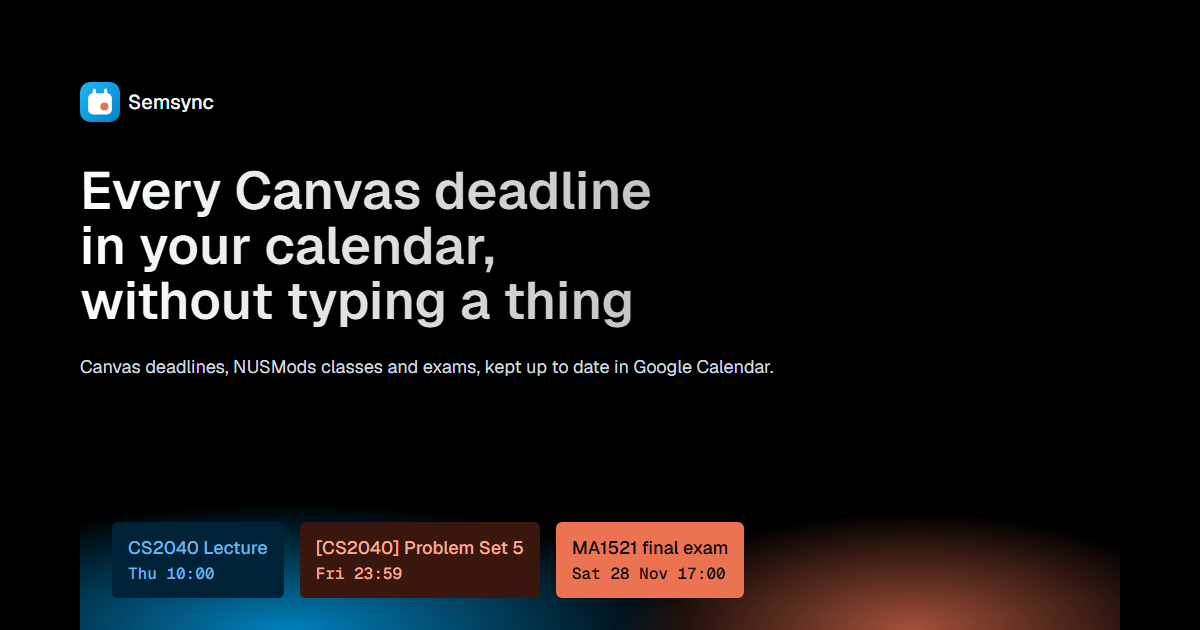
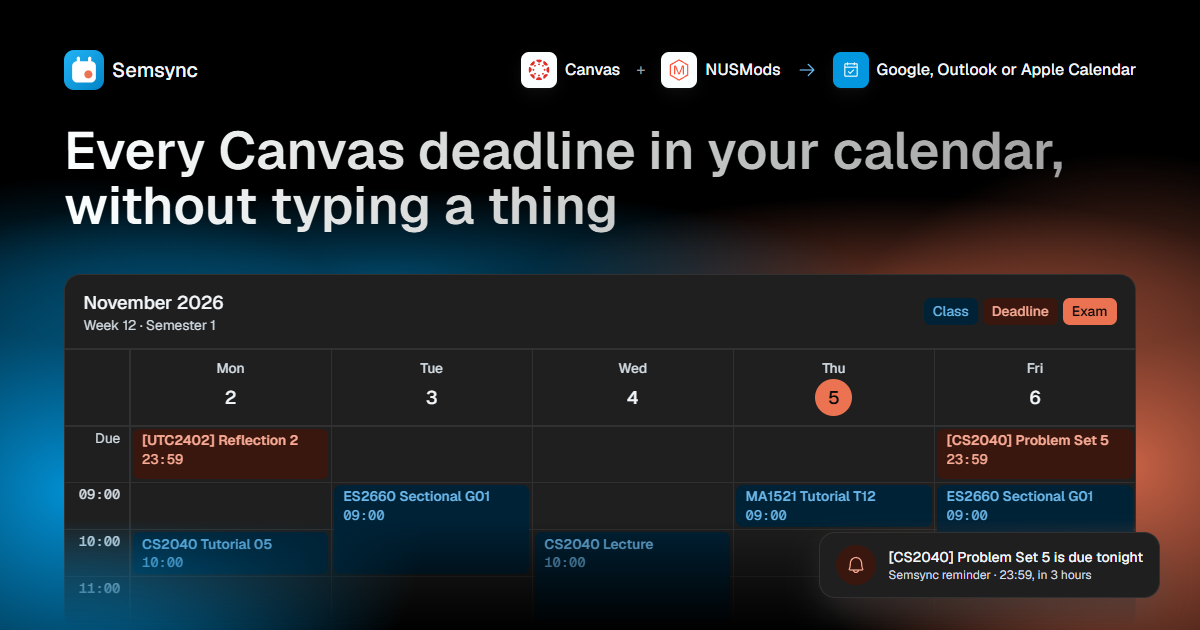
Fill the link preview with the week calendar
The preview card was a headline over an empty black page with three chips at the bottom.
Now the hero's week rises from the bottom edge in its glow, a little larger so it reads at
feed size, fading out instead of being cut through a row, with the reminder over it. The top
row says what it connects: Canvas and NUSMods into Google, Outlook or Apple Calendar.

The week, the reminder and the Canvas and NUSMods line are now shared components, so the
card and the landing page hero draw the same thing. The landing page is unchanged.

diff --git a/src/views/pages.tsx b/src/views/pages.tsx
@@ -315,6 +315,17 @@ const LinkGuides: FC = () => (
   </div>
 );
 
+/** What Semsync works with: Canvas and NUSMods, into Google Calendar (or `dest`, where there's room to name the others). */
+const Flow: FC<{ dest?: string }> = ({ dest = 'Google Calendar' }) => (
+  <p class="flow" aria-label={`Works with Canvas and NUSMods, into ${dest}`}>
+    <span class="flow-item"><span class="flow-icon flow-logo"><CanvasMark size={22} /></span><span class="title-3">Canvas</span></span>
+    <span class="flow-plus title-3" aria-hidden="true">+</span>
+    <span class="flow-item"><span class="flow-icon flow-logo"><NusmodsMark size={22} /></span><span class="title-3">NUSMods</span></span>
+    <span class="flow-arrow" aria-hidden="true"><Icon name="arrowRight" size={20} /></span>
+    <span class="flow-item flow-dest"><span class="flow-icon"><Icon name="calendarCheck" size={18} /></span><span class="title-3">{dest}</span></span>
+  </p>
+);
+
 /** Proof beside the claim: a real testimonial once there is one, otherwise what Semsync works with (both true). */
 const Proof: FC = () =>
   TESTIMONIAL ? (
@@ -323,13 +334,7 @@ const Proof: FC = () =>
       <figcaption class="caption-2">{TESTIMONIAL.name}, {TESTIMONIAL.detail}</figcaption>
     </figure>
   ) : (
-    <p class="flow" aria-label="Works with Canvas and NUSMods, into Google Calendar">
-      <span class="flow-item"><span class="flow-icon flow-logo"><CanvasMark size={22} /></span><span class="title-3">Canvas</span></span>
-      <span class="flow-plus title-3" aria-hidden="true">+</span>
-      <span class="flow-item"><span class="flow-icon flow-logo"><NusmodsMark size={22} /></span><span class="title-3">NUSMods</span></span>
-      <span class="flow-arrow" aria-hidden="true"><Icon name="arrowRight" size={20} /></span>
-      <span class="flow-item flow-dest"><span class="flow-icon"><Icon name="calendarCheck" size={18} /></span><span class="title-3">Google Calendar</span></span>
-    </p>
+    <Flow />
   );
 
 // The hero picture: Week 12 of Semester 1 (2 to 6 Nov 2026) as Semsync puts it in Google Calendar.
@@ -383,48 +388,60 @@ const Showcase: FC = () => (
     aria-label="Two links pasted into Semsync, then a week in Google Calendar filling with NUSMods classes, Canvas deadlines and a Semsync reminder">
     <div class="cal">
       <DemoPaste />
-      <div class="cal-head">
-        <div>
-          <p class="title-3">November 2026</p>
-          <p class="caption-5 text-secondary">Week 12 · Semester 1</p>
-        </div>
-        <div class="cal-legend">
-          <span class="chip chip-class caption-4">Class</span>
-          <span class="chip chip-deadline caption-4">Deadline</span>
-          <span class="chip chip-exam caption-4">Exam</span>
-        </div>
+      <Week />
+    </div>
+    <Reminder style={`--i: ${EVENTS.length + 2};`} />
+  </div>
+);
+
+/** The finished week inside the hero calendar, shared with the link preview card. */
+const Week: FC = () => (
+  <>
+    <div class="cal-head">
+      <div>
+        <p class="title-3">November 2026</p>
+        <p class="caption-5 text-secondary">Week 12 · Semester 1</p>
       </div>
-      <div class="divider" />
-      <div class="cal-grid">
-        <div class="cal-day" style="grid-column: 1; grid-row: 1;" />
-        {DAYS.map(([name, date], i) => (
-          <div class={`cal-day c${i + 1}`} style="grid-row: 1;">
-            <span class="caption-4">{name}</span>
-            <span class={`cal-date title-3${i + 1 === TODAY ? ' today' : ''}`}>{date}</span>
-          </div>
-        ))}
-        <div class="cal-time caption-5" style="grid-column: 1; grid-row: 2;">Due</div>
-        {DAYS.map((_, i) => <div class={`cell c${i + 1}`} style="grid-row: 2; min-height: var(--space-600);" />)}
-        {HOURS.map((h) => (
-          <>
-            <div class="cal-time caption-5 mono" style={`grid-column: 1; grid-row: ${hourRow(h)};`}>{pad(h)}</div>
-            {DAYS.map((_, i) => <div class={`cell c${i + 1}`} style={`grid-row: ${hourRow(h)};`} />)}
-          </>
-        ))}
-        {EVENTS.map((e, i) => (
-          <div class={`ev chip-${e.kind} c${e.day}`} style={`grid-row: ${e.row} / span ${e.span}; --i: ${i};`}>
-            <span class="caption-3">{e.title}</span>
-            <span class="caption-5 mono">{e.time}</span>
-          </div>
-        ))}
+      <div class="cal-legend">
+        <span class="chip chip-class caption-4">Class</span>
+        <span class="chip chip-deadline caption-4">Deadline</span>
+        <span class="chip chip-exam caption-4">Exam</span>
       </div>
     </div>
-    <div class="toast" style={`--i: ${EVENTS.length + 2};`}>
-      <span class="toast-icon"><Icon name="bell" size={20} /></span>
-      <div>
-        <p class="title-4">[CS2040] Problem Set 5 is due tonight</p>
-        <p class="caption-5">Semsync reminder · 23:59, in 3 hours</p>
-      </div>
+    <div class="divider" />
+    <div class="cal-grid">
+      <div class="cal-day" style="grid-column: 1; grid-row: 1;" />
+      {DAYS.map(([name, date], i) => (
+        <div class={`cal-day c${i + 1}`} style="grid-row: 1;">
+          <span class="caption-4">{name}</span>
+          <span class={`cal-date title-3${i + 1 === TODAY ? ' today' : ''}`}>{date}</span>
+        </div>
+      ))}
+      <div class="cal-time caption-5" style="grid-column: 1; grid-row: 2;">Due</div>
+      {DAYS.map((_, i) => <div class={`cell c${i + 1}`} style="grid-row: 2; min-height: var(--space-600);" />)}
+      {HOURS.map((h) => (
+        <>
+          <div class="cal-time caption-5 mono" style={`grid-column: 1; grid-row: ${hourRow(h)};`}>{pad(h)}</div>
+          {DAYS.map((_, i) => <div class={`cell c${i + 1}`} style={`grid-row: ${hourRow(h)};`} />)}
+        </>
+      ))}
+      {EVENTS.map((e, i) => (
+        <div class={`ev chip-${e.kind} c${e.day}`} style={`grid-row: ${e.row} / span ${e.span}; --i: ${i};`}>
+          <span class="caption-3">{e.title}</span>
+          <span class="caption-5 mono">{e.time}</span>
+        </div>
+      ))}
+    </div>
+  </>
+);
+
+/** The reminder that floats over the edge of the week. */
+const Reminder: FC<{ style: string }> = ({ style }) => (
+  <div class="toast" style={style}>
+    <span class="toast-icon"><Icon name="bell" size={20} /></span>
+    <div>
+      <p class="title-4">[CS2040] Problem Set 5 is due tonight</p>
+      <p class="caption-5">Semsync reminder · 23:59, in 3 hours</p>
     </div>
   </div>
 );
@@ -439,10 +456,10 @@ const faqSchema = (faq: [string, string][]) =>
     }).replace(/</g, '\\u003c')}</script>`,
   );
 
-const Chip: FC<{ kind: 'class' | 'deadline' | 'exam'; title: string; time: string; large?: boolean }> = ({ kind, title, time, large }) => (
-  <div class={`chip chip-${kind} ${large ? 'title-2' : 'caption-4'}`} style={large ? 'padding: var(--space-100) var(--space-200);' : undefined}>
+const Chip: FC<{ kind: 'class' | 'deadline' | 'exam'; title: string; time: string }> = ({ kind, title, time }) => (
+  <div class={`chip chip-${kind} caption-4`}>
     {title}
-    <span class={`mono ${large ? 'body-3' : 'caption-5'}`}>{time}</span>
+    <span class="mono caption-5">{time}</span>
   </div>
 );
 
@@ -1345,7 +1362,10 @@ export const Terms: FC<Viewer> = ({ signedIn, setupPending, account, origin }) =
   </Layout>
 );
 
-/** 1200 × 630 card, screenshotted into public/og.png for link previews (see CONTRIBUTING.md). */
+/**
+ * 1200 × 630 card, screenshotted into public/og.png for link previews (see CONTRIBUTING.md). The hero's week rises from
+ * the bottom edge in its glow, with the reminder over it, so a shared link shows what Semsync does at a glance.
+ */
 export const OgCard: FC = () => (
   <html lang="en">
     <head>
@@ -1353,20 +1373,24 @@ export const OgCard: FC = () => (
       <link href={FONTS} rel="stylesheet" />
       <style>{raw(CSS)}</style>
       <link rel="stylesheet" href="/site.css" />
-      <style>{raw('html, body { width: 1200px; height: 630px; overflow: hidden; }')}</style>
+      <style>{raw('html, body { width: 1200px; height: 630px; overflow: hidden; } .flow { margin-top: 0; }')}</style>
     </head>
     <body class="mode-dark" style="background: var(--surface-primary); color: var(--text-primary);">
-      <div style="padding: var(--space-800) var(--space-800) 0; display: flex; flex-direction: column; height: 630px;">
-        <div class="brand title-1"><BrandMark size={40} />Semsync</div>
-        <h1 class="heading-2 hero-title" style="margin: var(--space-500) 0 0; max-width: 960px;">
+      <div style="position: relative; isolation: isolate; height: 630px; padding: var(--space-600) var(--space-700) 0; display: flex; flex-direction: column;">
+        <div style="position: absolute; inset: 0; z-index: -1; background: radial-gradient(30% 50% at 6% 78%, color-mix(in srgb, var(--surface-glow-brand) 95%, transparent), transparent), radial-gradient(28% 50% at 94% 74%, color-mix(in srgb, var(--surface-glow-accent) 85%, transparent), transparent), radial-gradient(40% 14% at 32% 44%, color-mix(in srgb, var(--surface-glow-brand) 45%, transparent), transparent), radial-gradient(30% 14% at 74% 45%, color-mix(in srgb, var(--surface-glow-accent) 40%, transparent), transparent);" />
+        <div style="display: flex; justify-content: space-between; align-items: center;">
+          <div class="brand title-1"><BrandMark size={40} />Semsync</div>
+          <Flow dest="Google, Outlook or Apple Calendar" />
+        </div>
+        <h1 class="heading-2 hero-title" style="margin: var(--space-400) 0 0;">
           Every Canvas deadline in your calendar,<br /> without typing a thing
         </h1>
-        <p class="body-7 text-secondary mt-300">Canvas deadlines, NUSMods classes and exams, kept up to date in Google Calendar.</p>
-        <div style="display: flex; gap: var(--space-200); margin-top: auto; padding: var(--space-400); background: radial-gradient(40% 120% at 80% 100%, color-mix(in srgb, var(--surface-glow-accent) 70%, transparent), transparent 70%), radial-gradient(55% 130% at 20% 100%, color-mix(in srgb, var(--surface-glow-brand) 85%, transparent), transparent 70%);">
-          <Chip large kind="class" title="CS2040 Lecture" time="Thu 10:00" />
-          <Chip large kind="deadline" title="[CS2040] Problem Set 5" time="Fri 23:59" />
-          <Chip large kind="exam" title="MA1521 final exam" time="Sat 28 Nov 17:00" />
+        {/* The week fills the rest of the card, a little larger than on the site so the events read at feed size, and
+            fades out at the bottom edge instead of being cut through a row. */}
+        <div class="cal" style="flex: 1; min-height: 0; max-width: none; margin: var(--space-500) 0 0; mask-image: linear-gradient(to bottom, black calc(100% - 110px), transparent);">
+          <div style="zoom: 1.15;"><Week /></div>
         </div>
+        <Reminder style="width: auto; right: var(--space-500); bottom: var(--space-400);" />
       </div>
     </body>
   </html>
